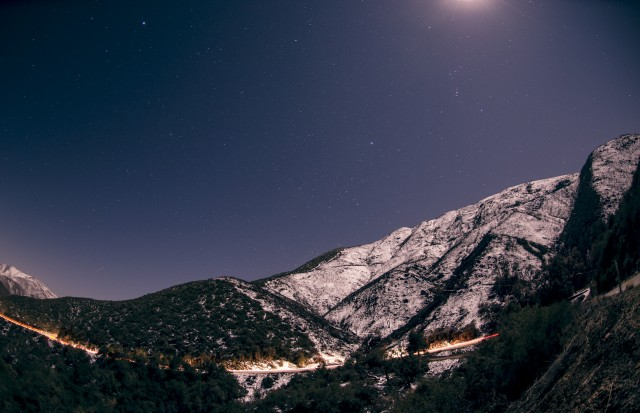
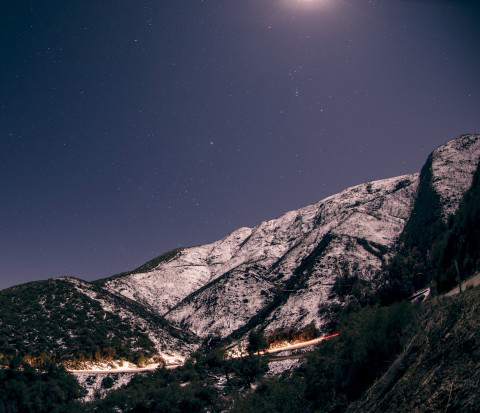
уменьшен размер картинок для уменьшения веса проекта

diff --git a/index.html b/index.html
@@ -53,7 +53,7 @@
                 <img
                   src="./images/girl.jpg"
                   class="mood__list-item"
-                  alt=""
+                  alt="Девушка с цветами и телефоном лежит в поле с закрытими глазами"
                   loading="lazy"
                 >
               </li>
@@ -61,7 +61,7 @@
                 <img
                   src="./images/orig.jpg"
                   class="mood__list-item"
-                  alt=""
+                  alt="Женские руки на клавиатуре ноутбука"
                   loading="lazy"
                 >
               </li>
@@ -69,7 +69,7 @@
                 <img
                   src="./images/bubbles.jpg"
                   class="mood__list-item"
-                  alt=""
+                  alt="Мыльные пузыри, блестящие на солнце"
                   loading="lazy"
                 >
               </li>
@@ -160,7 +160,7 @@
                 <img
                   src="./images/sea-storm.jpg"
                   class="mood__list-item"
-                  alt=""
+                  alt="Картина с кораблём, плывущего в шторм"
                   loading="lazy"
                 >
               </li>
@@ -168,7 +168,8 @@
                 <img
                   src="./images/paint.jpg"
                   class="mood__list-item"
-                  alt=""
+                  alt="Забавная интерпретация картины Ван Гога - Звёздная ночь, 
+                  но не с сине-жёлтыми, а чёрно-жёлтыми тонами. Внизу Снуппи смотрит на небо"
                   loading="lazy"
                 >
               </li>
@@ -176,7 +177,7 @@
                 <img
                   src="./images/clouds.jpg"
                   class="mood__list-item"
-                  alt=""
+                  alt="Красивая фотография кучевых облаков, сфотографировано высоко в небе"
                   loading="lazy"
                 >
               </li>
@@ -265,7 +266,7 @@
                 <img
                   src="./images/woman-resting.jpg"
                   class="mood__list-item"
-                  alt=""
+                  alt="Девушка отдыхает у окна, оперевшись на колени"
                   loading="lazy"
                 >
               </li>
@@ -273,7 +274,7 @@
                 <img
                   src="./images/flower.jpg"
                   class="mood__list-item"
-                  alt=""
+                  alt="Красивый белый цветок на фоне листвы"
                   loading="lazy"
                 >
               </li>
@@ -281,7 +282,7 @@
                 <img
                   src="./images/foggy-window.jpg"
                   class="mood__list-item"
-                  alt=""
+                  alt="Фотография заката, который виден через стекло в дождь"
                   loading="lazy"
                 >
               </li>
@@ -372,7 +373,7 @@
                 <img
                   src="./images/notebook-1.jpg"
                   class="mood__list-item"
-                  alt=""
+                  alt="Ноубут на столе с цветком и телефоном"
                   loading="lazy"
                 >
               </li>
@@ -380,7 +381,7 @@
                 <img
                   src="./images/sunset.jpg"
                   class="mood__list-item"
-                  alt=""
+                  alt="Мультяшный рисунок девушки, которая любуюется на закат из своей комнаты"
                   loading="lazy"
                 >
               </li>
@@ -388,7 +389,8 @@
                 <img
                   src="./images/coffee-and-cake.jpg"
                   class="mood__list-item"
-                  alt=""
+                  alt="Завтрак: рука держит чашку кофе с рисунком на пенке и бисквит 
+                  лежит на чёрной тарелке"
                   loading="lazy"
                 >
               </li>
@@ -479,7 +481,8 @@
                 <img
                   src="./images/wet-glass-1.jpg"
                   class="mood__list-item"
-                  alt=""
+                  alt="Девушка прислонила ладонь к стеклу, смотрит в окно, 
+                  снаружи дождь, капли покрывают стекло"
                   loading="lazy"
                 >
               </li>
@@ -487,7 +490,7 @@
                 <img
                   src="./images/through-the-city.jpg"
                   class="mood__list-item"
-                  alt=""
+                  alt="Мужчина в толстовке идёт по ночному городу, вокруг яркие огни"
                   loading="lazy"
                 >
               </li>
@@ -495,7 +498,8 @@
                 <img
                   src="./images/wet-glass-2.jpg"
                   class="mood__list-item"
-                  alt=""
+                  alt="Мужчина читает книгу у окна, фотограф смотрит на него 
+                  через стекло с каплями дождя"
                   loading="lazy"
                 >
               </li>
@@ -564,7 +568,7 @@
             <div class="card__wrapper image-6">
               <img
                 class="card__wrapper-img"
-                src="./images/image-start.jpg"
+                src="./images/image-start.png"
                 loading="lazy"
                 alt="Пиксельное изображение: белый микроавтобус едет 
                 по ночной дороге, на небе видны звёзды, по пути 
@@ -584,7 +588,7 @@
                 <img
                   src="./images/mountain.jpg"
                   class="mood__list-item"
-                  alt=""
+                  alt="Горный пейзаж с бликом от высокого солнца"
                   loading="lazy"
                 >
               </li>
@@ -592,7 +596,7 @@
                 <img
                   src="./images/moon.jpg"
                   class="mood__list-item"
-                  alt=""
+                  alt="Большая луна розоватого цвета на фоне веток с красивыми цветами"
                   loading="lazy"
                 >
               </li>
@@ -600,7 +604,7 @@
                 <img
                   src="./images/snowy-mountains.jpg"
                   class="mood__list-item"
-                  alt=""
+                  alt="Горный пейзаж на рассвете с заледеневшим озером на переднем плане"
                   loading="lazy"
                 >
               </li>
@@ -690,7 +694,7 @@
                 <img
                   src="./images/breathe.jpg"
                   class="mood__list-item"
-                  alt=""
+                  alt="Листок со стикером Breathe, наклеенным на зеркало"
                   loading="lazy"
                 >
               </li>
@@ -698,7 +702,7 @@
                 <img
                   src="./images/meditation.jpg"
                   class="mood__list-item"
-                  alt=""
+                  alt="Девушка медитирует в парке под деревом"
                   loading="lazy"
                 >
               </li>
@@ -706,7 +710,7 @@
                 <img
                   src="./images/positive-vibes.jpg"
                   class="mood__list-item"
-                  alt=""
+                  alt="Табличка с выложенными буквами Positive Vibes"
                   loading="lazy"
                 >
               </li>
@@ -798,6 +802,7 @@
                 <video
                   src="https://v1.pinimg.com/videos/mc/720p/53/74/6e/53746e143a0347212c5bf56aa58a0291.mp4"
                   class="mood__list-item video-filter"
+                  alt="Тёплый рассвет в загородном доме в какой-то глубинке, девшука стоит на веранде"
                   loading="lazy"
                   autoplay
                   loop
@@ -808,6 +813,8 @@
                 <video
                   src="https://v1.pinimg.com/videos/iht/expMp4/93/aa/74/93aa749bca64cfcd4ed5fd0ae6f817a2_720w.mp4"
                   class="mood__list-item video-filter"
+                  alt="Короткое видео со словами о том, что Кодинг скучно, 
+                  при этом показывает, что это не так"
                   loading="lazy"
                   autoplay
                   loop
@@ -818,6 +825,7 @@
                 <video
                   src="https://v1.pinimg.com/videos/iht/expMp4/70/05/21/7005211ca9850a408aed09f8829705b4_540w.mp4"
                   class="mood__list-item video-filter"
+                  alt="Капли дождя падают в воду"
                   autoplay
                   loop
                   muted
